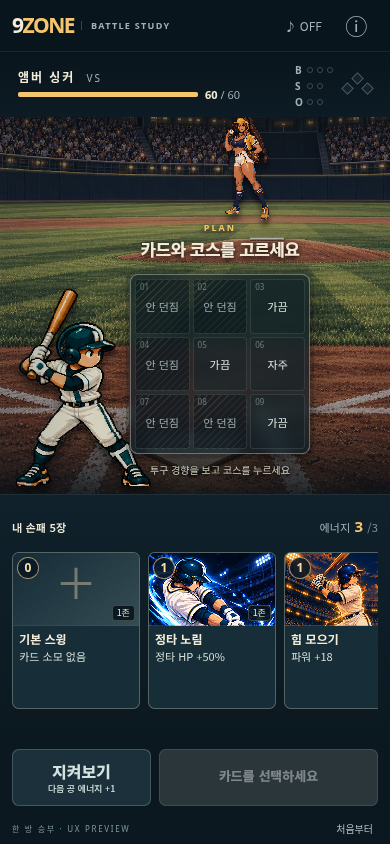
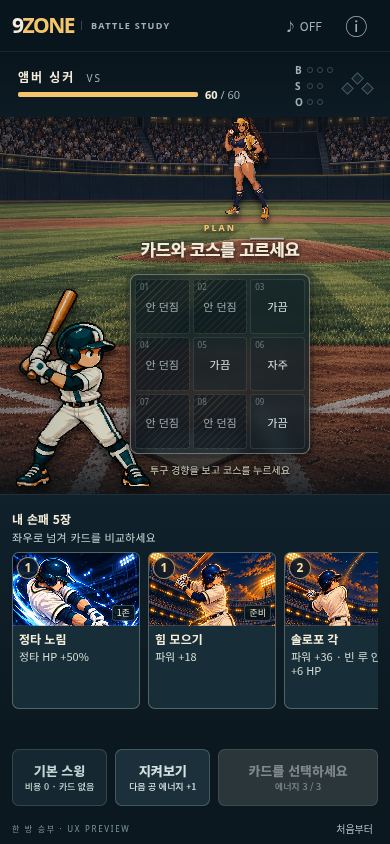
Prioritize real hand cards and keep selected effects visible

diff --git a/tests/zone-first-preview.test.jsx b/tests/zone-first-preview.test.jsx
@@ -9,7 +9,7 @@ import {setAimZone,playV10Action,coverageAt,publicProbabilities,readLevel,START_
 
 afterEach(()=>{cleanup();vi.useRealTimers();localStorage.clear();});
 const zones=()=>[...document.querySelectorAll('.zf-zone')];
-const card=kind=>document.querySelector(`.zf-card[data-kind="${kind}"]`);
+const card=kind=>document.querySelector(`[data-kind="${kind}"]`);
 const stage=()=>document.querySelector('.zf-preview').dataset.step;
 const fixture=()=>{
   const s=createPreviewBattle();
@@ -30,6 +30,37 @@ describe('zone-first preview interaction',()=>{
     expect(screen.getByRole('button',{name:/지켜보기/}).disabled).toBe(false);
     expect(localStorage.getItem('9zone-v10-run')).toBe('existing-run');
   });
+  it('keeps basic swing outside the real hand and selects it without pitching',()=>{
+    vi.useFakeTimers();const s=start();
+    expect(document.querySelectorAll('.zf-hand .zf-card')).toHaveLength(s.battle.hand.length);
+    expect(document.querySelector('.zf-hand [data-kind="basic"]')).toBeNull();
+    fireEvent.click(card('basic'));expect(stage()).toBe('plan');expect(card('basic').getAttribute('aria-pressed')).toBe('true');
+    expect(zones().some(x=>x.getAttribute('aria-pressed')==='true')).toBe(false);
+    fireEvent.click(zones()[4]);expect(screen.getByRole('button',{name:'타격! 에너지 0 / 3'}).disabled).toBe(false);
+    const expected=playV10Action(setAimZone(s,4),{type:'card',id:'basic',supports:[]});
+    fireEvent.click(screen.getByRole('button',{name:'타격! 에너지 0 / 3'}));
+    expect(card('basic').disabled).toBe(true);expect(stage()).toBe('flight');
+    act(()=>vi.advanceTimersByTime(PREVIEW_IMPACT_MS));expect(stage()).toBe('result');
+    expect(screen.getByRole('meter').getAttribute('aria-valuenow')).toBe(String(expected.pitcher.hp));
+  });
+  it('pins the selected payoff, draw limit and cost next to the decision',()=>{
+    const s=fixture();s.deck[4].kind='watch';render(<ZoneFirstPreview initialState={s}/>);
+    fireEvent.click(card('watch'));const summary=document.querySelector('.zf-selection');
+    expect(summary.textContent).toContain('뽑기 1장');expect(summary.textContent).toContain('손패 5장 한도');
+    expect(screen.getByRole('button',{name:'준비 사용 에너지 1 / 3'}).disabled).toBe(false);
+    fireEvent.click(card('place'));expect(summary.textContent).toContain('정타 HP +50%');
+    expect(summary.textContent).not.toContain('손패 5장 한도');
+  });
+  it('announces support removal when selecting a different main card',()=>{
+    start();aimAndPick('place');fireEvent.click(screen.getByRole('button',{name:'＋ 지원 추가'}));
+    fireEvent.click(card('strike'));fireEvent.click(zones()[2]);
+    expect(document.querySelector('.zf-selection').textContent).toContain('지원 1장');
+    fireEvent.click(card('basic'));
+    expect(document.querySelectorAll('.zf-card.is-support')).toHaveLength(0);
+    expect(document.querySelector('.zf-notice').textContent).toContain('지원 1장 해제');
+    expect(screen.getByRole('button',{name:'타격! 에너지 0 / 3'}).disabled).toBe(false);
+    expect(stage()).toBe('plan');
+  });
   it('keeps cards visible through selection and direct re-aiming',()=>{
     const s=start();aimAndPick('strike');
     expect(stage()).toBe('plan');expect(document.querySelector('.zf-hand')).not.toBeNull();
@@ -42,18 +73,18 @@ describe('zone-first preview interaction',()=>{
     expect(stage()).toBe('plan');expect(document.querySelector('.zf-zone.covered')).toBeNull();
     expect(zones().some(x=>x.getAttribute('aria-pressed')==='true')).toBe(false);
     expect(document.querySelector('.zf-board-caption').textContent).not.toContain('적중권');
-    expect(screen.getByRole('button',{name:'코스를 선택하세요'}).disabled).toBe(true);
+    expect(screen.getByRole('button',{name:/^코스를 선택하세요/}).disabled).toBe(true);
     expect(screen.queryByRole('button',{name:'＋ 지원 추가'})).toBeNull();
     fireEvent.click(zones()[2]);
     expect(zones().flatMap((el,z)=>el.classList.contains('covered')?[z]:[])).toEqual(coverageAt(s,'c1',2));
-    expect(screen.getByRole('button',{name:'타격! 에너지 1'}).disabled).toBe(false);
+    expect(screen.getByRole('button',{name:/^타격! 에너지 1/}).disabled).toBe(false);
   });
   it('swaps cards directly while keeping the same hand mounted',()=>{
     start();const hand=document.querySelector('.zf-hand');fireEvent.click(card('place'));
     fireEvent.click(card('strike'));expect(document.querySelector('.zf-hand')).toBe(hand);
     expect(card('strike').getAttribute('aria-pressed')).toBe('true');expect(card('place').getAttribute('aria-pressed')).toBe('false');
     expect(document.querySelector('.zf-zone.covered')).toBeNull();
-    expect(screen.getByRole('button',{name:'코스를 선택하세요'}).disabled).toBe(true);
+    expect(screen.getByRole('button',{name:/^코스를 선택하세요/}).disabled).toBe(true);
     expect(screen.queryByRole('button',{name:/손패 보기|손패 접기|선택으로 돌아가기|카드 바꾸기/})).toBeNull();
   });
   it('chooses a zone first without a reveal step and replaces the attack in place',()=>{
@@ -62,16 +93,16 @@ describe('zone-first preview interaction',()=>{
     expect(document.querySelector('.zf-hand')).toBe(hand);expect(stage()).toBe('plan');
     expect(zones()[2].getAttribute('aria-pressed')).toBe('true');
     expect(zones().flatMap((el,z)=>el.classList.contains('covered')?[z]:[])).toEqual(coverageAt(s,'c0',2));
-    expect(screen.getByRole('button',{name:'타격! 에너지 1'}).disabled).toBe(false);
+    expect(screen.getByRole('button',{name:/^타격! 에너지 1/}).disabled).toBe(false);
   });
   it('uses a preparation without selecting a zone and still requires one for an attack',()=>{
     start();fireEvent.click(card('setup'));
-    fireEvent.click(screen.getByRole('button',{name:'준비 사용 에너지 0'}));
+    fireEvent.click(screen.getByRole('button',{name:/^준비 사용 에너지 0/}));
     expect(stage()).toBe('plan');expect(card('setup')).toBeNull();
     expect(zones().some(x=>x.getAttribute('aria-pressed')==='true')).toBe(false);
     fireEvent.click(card('place'));
     expect(document.querySelector('.zf-notice').textContent).toContain('집중 +1');
-    expect(screen.getByRole('button',{name:'코스를 선택하세요'}).disabled).toBe(true);
+    expect(screen.getByRole('button',{name:/^코스를 선택하세요/}).disabled).toBe(true);
   });
   it('shows the real draw count and hand limit before using a draw card',()=>{
     const s=fixture();s.deck[4].kind='watch';render(<ZoneFirstPreview initialState={s}/>);
@@ -79,7 +110,7 @@ describe('zone-first preview interaction',()=>{
     expect(card('watch').textContent).toContain('뽑기 1장');expect(card('watch').textContent).toContain('손패 5장 한도');
     fireEvent.click(card('watch'));
     expect(card('watch').textContent).toContain('뽑기 1장');
-    fireEvent.click(screen.getByRole('button',{name:'준비 사용 에너지 1'}));
+    fireEvent.click(screen.getByRole('button',{name:/^준비 사용 에너지 1/}));
     expect(document.querySelectorAll('.zf-card:not([data-kind="basic"])')).toHaveLength(5);
     expect(stage()).toBe('plan');
   });
@@ -92,7 +123,7 @@ describe('zone-first preview interaction',()=>{
   it('keeps the real power preparation visible after choosing an attack',()=>{
     const s=fixture();s.deck[4].kind='loadPower';render(<ZoneFirstPreview initialState={s}/>);
     fireEvent.click(card('loadPower'));
-    fireEvent.click(screen.getByRole('button',{name:'준비 사용 에너지 1'}));fireEvent.click(card('place'));
+    fireEvent.click(screen.getByRole('button',{name:/^준비 사용 에너지 1/}));fireEvent.click(card('place'));
     expect(document.querySelector('.zf-notice').textContent).toContain('파워 +18');
   });
   it('explicitly restarts with another real deck instead of replacing a live hand',()=>{
@@ -111,12 +142,12 @@ describe('zone-first preview interaction',()=>{
     expect(document.querySelector('.zf-hand')).toBe(hand);expect(card('setup')).not.toBeNull();
     fireEvent.click(screen.getByRole('button',{name:'지원 선택 취소'}));
     expect(card('strike').getAttribute('aria-pressed')).toBe('true');expect(zones()[4].getAttribute('aria-pressed')).toBe('true');
-    expect(screen.getByRole('button',{name:'타격! 에너지 1'}).disabled).toBe(false);
+    expect(screen.getByRole('button',{name:/^타격! 에너지 1/}).disabled).toBe(false);
   });
   it('places and removes support without moving the main aim',()=>{
     start();aimAndPick('place');fireEvent.click(screen.getByRole('button',{name:'＋ 지원 추가'}));
     fireEvent.click(card('strike'));expect(stage()).toBe('plan');
-    expect(screen.getByRole('button',{name:'지원을 배치하세요'}).disabled).toBe(true);
+    expect(screen.getByRole('button',{name:/^지원을 배치하세요/}).disabled).toBe(true);
     fireEvent.click(zones()[2]);
     expect(zones()[4].getAttribute('aria-pressed')).toBe('true');
     expect(zones()[2].querySelector('[aria-label="지원 위치"]')).not.toBeNull();
@@ -134,7 +165,8 @@ describe('zone-first preview interaction',()=>{
     start();aimAndPick('basic');expect(screen.queryByRole('button',{name:'＋ 지원 추가'})).toBeNull();
     fireEvent.click(card('place'));
     fireEvent.click(screen.getByRole('button',{name:'＋ 지원 추가'}));
-    for(const kind of ['basic','setup','place'])expect(card(kind).getAttribute('aria-disabled')).toBe('true');
+    expect(card('basic').disabled).toBe(true);
+    for(const kind of ['setup','place'])expect(card(kind).getAttribute('aria-disabled')).toBe('true');
   });
   it('rejects an over-budget support with the real engine reason',()=>{
     const s=fixture();s.battle.energy=2;render(<ZoneFirstPreview initialState={s}/>);
@@ -143,7 +175,7 @@ describe('zone-first preview interaction',()=>{
     expect(document.querySelector('.zf-notice').textContent).toContain('3/2');
   });
   it('uses a preparation without pitching and retains its active effect',()=>{
-    start();aimAndPick('setup');fireEvent.click(screen.getByRole('button',{name:'준비 사용 에너지 0'}));
+    start();aimAndPick('setup');fireEvent.click(screen.getByRole('button',{name:/^준비 사용 에너지 0/}));
     expect(stage()).toBe('plan');expect(card('setup')).toBeNull();
     expect(document.querySelector('.zf-notice').textContent).toContain('준비 1/2');
     fireEvent.click(card('place'));expect(document.querySelector('.zf-notice').textContent).toContain('집중 +1');
@@ -157,7 +189,7 @@ describe('zone-first preview interaction',()=>{
   it('shows a scouted outside ball beside the board, without opening information',()=>{
     const s=fixture();s.battle.hand[4]='c5';s.battle.draw=s.deck.filter(c=>!s.battle.hand.includes(c.id)).map(c=>c.id);
     s.battle.pending={zone:9,roll:.5,powerRoll:.1};render(<ZoneFirstPreview initialState={s}/>);
-    aimAndPick('scout');fireEvent.click(screen.getByRole('button',{name:'준비 사용 에너지 1'}));
+    aimAndPick('scout');fireEvent.click(screen.getByRole('button',{name:/^준비 사용 에너지 1/}));
     expect(document.querySelector('.zf-board-caption').textContent).toBe('존 밖 볼 확인');
     expect(stage()).toBe('plan');expect(screen.getByRole('button',{name:/지켜보기/}).disabled).toBe(false);
   });
@@ -165,7 +197,7 @@ describe('zone-first preview interaction',()=>{
     vi.useFakeTimers();const s=fixture();s.battle.pending={zone:4,roll:.5,powerRoll:.1};
     render(<ZoneFirstPreview initialState={s}/>);aimAndPick('place');
     const expected=playV10Action(setAimZone(s,4),{type:'card',id:'c0',supports:[]});
-    fireEvent.click(screen.getByRole('button',{name:'타격! 에너지 1'}));
+    fireEvent.click(screen.getByRole('button',{name:/^타격! 에너지 1/}));
     expect(stage()).toBe('flight');expect(screen.getByRole('meter').getAttribute('aria-valuenow')).toBe(String(s.pitcher.hp));
     expect(document.querySelector('.zf-zone.landed')).toBeNull();expect(document.querySelector('.zf-result-card')).toBeNull();
     expect(screen.getByRole('button',{name:/지켜보기/}).disabled).toBe(true);

diff --git a/src/duel/ZoneFirstPreview.jsx b/src/duel/ZoneFirstPreview.jsx
@@ -105,6 +105,7 @@ export default function ZoneFirstPreview({initialState}){
     if(handMode==='support'){setArmed(c.id);return;}
     if(c.id===picked)return;
     setPicked(c.id);setSupports([]);setArmed(null);
+    if(supports.length)setNotice(`타격 카드 변경 · 지원 ${supports.length}장 해제`);
   };
   const execute=(take=false)=>{
     if(busy.current||result||(!take&&(!picked||armed||handMode==='support'||(!skill&&aim===null)||problem)))return;
@@ -129,6 +130,8 @@ export default function ZoneFirstPreview({initialState}){
   const cardProblemFor=c=>handMode==='support'?stackSupportProblem(game,picked,[...supports,{id:c.id,aimZone:aim}]):cardProblem(game,c.id);
   const ballZone=flying?pending.current?.battle.revealed?.zone:revealed?.zone;
   const ballStyle=Number.isInteger(ballZone)?{'--ball-x':`${ballZone===9?116:((ballZone%3)+.5)/3*100}%`,'--ball-y':`${ballZone===9?50:(Math.floor(ballZone/3)+.5)/3*100}%`}:{};
+  const selectedFace=entry?cardFaceOf(entry,{strikes:game.battle.strikes,drawPreview:preparationDrawPreview(game,entry.id)}):null;
+  const selectedText=selectedFace?[...new Set([selectedFace.summary,selectedFace.condition,selectedFace.drawNote].filter(Boolean))].join(' · '):'';
   const activeEffects=activePreparationFeedback(game.battle,game.phase).filter(t=>!t.startsWith('이번 공 간파:')).join(' · ');
   const clue=pitchClue(game);
   const caption=result?`실제 투구 · ${revealed?.zone===9?'존 밖':ZONE_WORDS[revealed?.zone]}`:
@@ -170,9 +173,8 @@ export default function ZoneFirstPreview({initialState}){
         </div>
       </div>
       <section className="zf-dock" aria-label="이번 공 선택">
-        <div className="zf-dock-top"><span>{result?'이번 공의 결과':entry?entryName(entry):`내 손패 ${hand.length}장`}</span><span className="zf-energy" aria-label={`에너지 ${v10Energy(game)}/${v10EnergyCap(game)}`}>에너지 <b>{v10Energy(game)}</b><span>/{v10EnergyCap(game)}</span></span>{!result&&(canSupport||handMode==='support')&&<button type="button" className="zf-support-toggle" aria-pressed={handMode==='support'} onClick={toggleSupport} disabled={flying}>{handMode==='support'?(armed?'배치 취소':'지원 선택 취소'):'＋ 지원 추가'}</button>}</div>
+        <div className="zf-dock-top"><div className="zf-selection" aria-label="현재 선택"><strong>{result?'이번 공의 결과':entry?entryName(entry):`내 손패 ${hand.length}장`}</strong>{!result&&<span>{selectedText+(supports.length?` · 지원 ${supports.length}장 · 피해 ×${preview.damageRate.toFixed(2)}`:'')||(hand.length>3?'좌우로 넘겨 카드를 비교하세요':'카드와 코스를 원하는 순서로 고르세요')}</span>}</div>{!result&&(canSupport||handMode==='support')&&<button type="button" className="zf-support-toggle" aria-pressed={handMode==='support'} onClick={toggleSupport} disabled={flying}>{handMode==='support'?(armed?'배치 취소':'지원 선택 취소'):'＋ 지원 추가'}</button>}</div>
         {!result&&<div className="zf-hand" role="group" aria-label={handMode==='support'?'지원 카드 선택':'카드 선택'}>
-          <Card s={game} entry={BASIC} onClick={()=>chooseCard({id:'basic',kind:'basic'})} problem={cardProblemFor({id:'basic',kind:'basic'})} selected={picked==='basic'} locked={flying}/>
           {hand.map(c=><Card key={c.id} s={game} entry={c} problem={supports.some(x=>x.id===c.id)?'':cardProblemFor(c)} selected={picked===c.id} support={supports.some(x=>x.id===c.id)} armed={armed===c.id} locked={flying} onClick={()=>chooseCard(c)}/>)}
         </div>}
         {result&&<div className={'zf-result-card zf-'+feedback.tone}><strong>{game.v10.lastCombat?.damage?`−${game.v10.lastCombat.damage} HP`:revealed?.label}</strong><span>{feedback.detail}</span>{game.battle.takeEnergyBonus===1&&['pitch','between'].includes(game.phase)&&<small>다음 공 에너지 4 · {takeDraw.count===1?'추가 카드 +1':takeDraw.reason==='full'?'손패 6장 한도':'추가 드로우 없음'}</small>}<small>{game.phase==='lost'?'3아웃 · 체험 종료':['reward','won'].includes(game.phase)?'투수 격파 · 체험 종료':game.phase==='between'?'다음 타자가 들어옵니다':'같은 타자 · 다음 공'}</small></div>}
@@ -180,12 +182,13 @@ export default function ZoneFirstPreview({initialState}){
       </section>
       <footer className="zf-actions">
         {result?<button type="button" className="zf-go" data-zf-next onClick={nextTurn}>{game.phase==='pitch'?'다음 공':game.phase==='between'?'다음 타자':'다시 플레이'} <span>→</span></button>:<>
+          <button type="button" className="zf-basic" data-kind="basic" aria-pressed={picked==='basic'} onClick={()=>chooseCard({id:'basic',kind:'basic'})} disabled={flying||handMode==='support'}>기본 스윙<small>비용 0 · 카드 없음</small></button>
           <button type="button" className="zf-take" onClick={()=>execute(true)} disabled={flying}>지켜보기<small>{game.battle.strikes===2?'볼이면 +1 · 삼진 피해 0':'다음 공 에너지 +1'}</small></button>
-          <button type="button" className="zf-go" onClick={()=>execute()} disabled={flying||!picked||!!armed||handMode==='support'||!!problem||(!skill&&aim===null)}>{flying?'투구 중…':handMode==='support'?'지원을 배치하세요':skill?'준비 사용':picked&&aim!==null?'타격!':picked?'코스를 선택하세요':'카드를 선택하세요'}<small>{!flying&&picked&&!armed&&handMode!=='support'&&(skill||aim!==null)?`에너지 ${preview?.cost??0}${supports.length?' · 피해 ×'+preview.damageRate.toFixed(2):''}`:''}</small></button>
+          <button type="button" className="zf-go" onClick={()=>execute()} disabled={flying||!picked||!!armed||handMode==='support'||!!problem||(!skill&&aim===null)}>{flying?'투구 중…':handMode==='support'?'지원을 배치하세요':skill?'준비 사용':picked&&aim!==null?'타격!':picked?'코스를 선택하세요':'카드를 선택하세요'}<small>{!flying&&picked&&!armed&&handMode!=='support'&&(skill||aim!==null)?`에너지 ${preview?.cost??0} / ${v10Energy(game)}`:!flying?`에너지 ${v10Energy(game)} / ${v10EnergyCap(game)}`:''}</small></button>
         </>}
       </footer>
       <div className="zf-footnote"><span>{pack.name} · UX PREVIEW</span><button type="button" onClick={()=>restartDeck()} disabled={flying}>처음부터</button></div>
-      {info&&<dialog ref={dialog} className="zf-dialog" onCancel={()=>setInfo(false)} onClose={()=>setInfo(false)} aria-labelledby="zf-info-title"><h2 id="zf-info-title">전투 정보</h2><p>손패는 항상 표시됩니다. 카드와 코스는 원하는 순서로 고르세요. 선택한 지원 카드를 다시 누르면 제거됩니다. 준비 카드는 코스 선택 없이 쓸 수 있습니다.</p><p>기존 덱빌딩 규칙과 실제 시작 덱을 사용하는 단일 전투 체험입니다. 새로고침하면 초기화됩니다.</p><p>현재 타자: {LINEUP[game.battle.batterIndex].name}<br/>준비: {game.battle.preparations}/{v10PrepMax(game)} · 집중 {game.battle.aim||0}<br/>기세 {game.battle.momentum||0} · 투수 흔들림 {game.battle.shaken||0}<br/>주자: {game.battle.bases.map((id,i)=>id?`${i+1}루 ${LINEUP.find(x=>x.id===id)?.name||'주자'}`:null).filter(Boolean).join(' · ')||'없음'}</p>{activeEffects&&<p><strong>유지 중인 준비 효과</strong><br/>{activeEffects}</p>}{entry&&<p><strong>{entryName(entry)}</strong><br/>{entry.kind==='basic'?'한 존을 노립니다. 비용 0 · 카드 소모 없음.':CARDS[entry.kind].text}</p>}<p>손패 {hand.length}장 · 더미 {game.battle.draw.length}장 · 버림 {game.battle.discard.length}장</p><fieldset className="zf-deck-picks"><legend>다른 시작 덱 체험</legend>{START_PACKS.map(p=><button type="button" key={p.id} onClick={()=>restartDeck(p.id)}><strong>{p.name}{p.id===pack.id?' · 현재':''}</strong><small>{p.desc}</small><span>이 덱으로 다시 시작 →</span></button>)}</fieldset><button type="button" onClick={()=>setInfo(false)}>닫기</button></dialog>}
+      {info&&<dialog ref={dialog} className="zf-dialog" onCancel={()=>setInfo(false)} onClose={()=>setInfo(false)} aria-labelledby="zf-info-title"><h2 id="zf-info-title">전투 정보</h2><p>손패는 항상 표시됩니다. 카드와 코스는 원하는 순서로 고르세요. 기본 스윙은 아래 버튼으로 선택하며, 타격 버튼을 눌러 실행합니다. 선택한 지원 카드를 다시 누르면 제거됩니다. 준비 카드는 코스 선택 없이 쓸 수 있습니다.</p><p>기존 덱빌딩 규칙과 실제 시작 덱을 사용하는 단일 전투 체험입니다. 새로고침하면 초기화됩니다.</p><p>현재 타자: {LINEUP[game.battle.batterIndex].name}<br/>준비: {game.battle.preparations}/{v10PrepMax(game)} · 집중 {game.battle.aim||0}<br/>기세 {game.battle.momentum||0} · 투수 흔들림 {game.battle.shaken||0}<br/>주자: {game.battle.bases.map((id,i)=>id?`${i+1}루 ${LINEUP.find(x=>x.id===id)?.name||'주자'}`:null).filter(Boolean).join(' · ')||'없음'}</p>{activeEffects&&<p><strong>유지 중인 준비 효과</strong><br/>{activeEffects}</p>}{entry&&<p><strong>{entryName(entry)}</strong><br/>{entry.kind==='basic'?'한 존을 노립니다. 비용 0 · 카드 소모 없음.':CARDS[entry.kind].text}</p>}<p>손패 {hand.length}장 · 더미 {game.battle.draw.length}장 · 버림 {game.battle.discard.length}장</p><fieldset className="zf-deck-picks"><legend>다른 시작 덱 체험</legend>{START_PACKS.map(p=><button type="button" key={p.id} onClick={()=>restartDeck(p.id)}><strong>{p.name}{p.id===pack.id?' · 현재':''}</strong><small>{p.desc}</small><span>이 덱으로 다시 시작 →</span></button>)}</fieldset><button type="button" onClick={()=>setInfo(false)}>닫기</button></dialog>}
     </section>
   </main>;
 }

diff --git a/src/duel/zone-first-preview.css b/src/duel/zone-first-preview.css
@@ -65,7 +65,9 @@
 .zf-field.zf-near .zf-zone.landed{border-color:#9bcbe1;background:#6cacc344}
 .zf-dock{flex:none;height:248px;padding:8px 12px 0;background:linear-gradient(#10212b,#0b1820);border-top:1px solid #8fa9ad2b;position:relative}
 .zf-dock-top{height:49px;gap:8px;display:flex;align-items:center;justify-content:space-between;font-size:11px;letter-spacing:.2px;color:var(--zf-muted)}
-.zf-dock-top>span:first-child{flex:1;min-width:0;overflow:hidden;text-overflow:ellipsis;white-space:nowrap;color:var(--zf-paper);font-weight:600}
+.zf-selection{flex:1;min-width:0;max-height:49px;overflow-y:auto;scrollbar-width:thin;overscroll-behavior-y:contain;line-height:1.3}
+.zf-selection strong{display:block;color:var(--zf-paper);font-size:12px;font-weight:700;margin-bottom:3px}
+.zf-selection>span{display:block;font-size:11px;color:#c5d5d4;overflow-wrap:anywhere}
 .zf-preview .zf-support-toggle{font-size:10px;padding:5px 8px;min-height:44px;flex:none;color:var(--zf-teal)}
 .zf-preview .zf-support-toggle[aria-pressed="true"]{border-color:var(--zf-teal);background:#83dbc922}
 .zf-energy{display:flex;align-items:baseline;gap:4px}.zf-energy b{font:800 15px/1 system-ui;color:var(--zf-gold)}.zf-energy>span{color:#7f969f}
@@ -98,10 +100,12 @@
 .zf-actions{display:flex;gap:8px;flex:none;padding:7px 12px 8px;height:72px;background:#0b1820}
 .zf-preview .zf-actions button{border-radius:7px;font-size:16px;font-weight:800;min-height:52px;display:flex;flex-direction:column;align-items:center;justify-content:center;gap:2px}
 .zf-preview .zf-actions small{font-size:9px;line-height:1.2;font-weight:500;letter-spacing:0}
-.zf-preview button.zf-take{flex:0 0 38%;background:#1b303b;border-color:#6a858b77;color:#d5e3e0}
+.zf-preview button.zf-take{flex:0 0 26%;font-size:13px;padding-inline:5px;background:#1b303b;border-color:#6a858b77;color:#d5e3e0}
+.zf-preview button.zf-basic{flex:0 0 26%;font-size:13px;padding-inline:5px;color:#c5d5d4;background:#152730}
+.zf-preview button.zf-basic[aria-pressed="true"]{border-color:var(--zf-gold);background:#f4c56c23;color:var(--zf-gold)}
 .zf-preview button.zf-go:not(:disabled){flex:1;background:var(--zf-gold);border-color:#fae0a7;color:#18232a;box-shadow:inset 0 1px #fff7}
 .zf-preview button.zf-go{flex:1}
-.zf-preview .zf-go:disabled{background:#31454c;border-color:#526168;color:#a8b9bd;opacity:.7;font-size:13px}
+.zf-preview .zf-go:disabled{padding-inline:5px;background:#31454c;border-color:#526168;color:#a8b9bd;opacity:.7;font-size:13px}
 .zf-go>span{font-size:18px;line-height:1}
 .zf-footnote{height:30px;flex:none;padding:0 12px calc(env(safe-area-inset-bottom,0px));box-sizing:content-box;display:flex;align-items:center;justify-content:space-between;background:#0b1820;color:#7e959d;font:500 8px/1 system-ui;letter-spacing:1.7px}
 .zf-preview .zf-footnote button{padding:0 5px;min-height:30px;border:0;background:transparent;font-size:10px;color:#a9babd;letter-spacing:0}

diff --git a/docs/design/ZONE-FIRST-PREVIEW.md b/docs/design/ZONE-FIRST-PREVIEW.md
@@ -20,11 +20,11 @@ This is an isolated playable battle study, not a replacement for the main game.
 
 ## Interaction contract
 
-- Initial state shows nine zones and the actual hand. No hand reveal, folding, returning or card-switch button is required. The default basic swing is a zero-cost card alongside the hand.
+- Initial state shows nine zones and the actual hand. No hand reveal, folding, returning or card-switch button is required. Basic swing is an always-visible zero-cost selection button beside take and execute; it no longer occupies a hand slot.
 - Choose a card or zone first. Both directly update the same board; an attack requires an actual aim. No range, odds or arbitrary center appears before aiming.
-- Selecting or swapping a card keeps the hand visible and mounted. Selection is marked on the card, range on the board, cost on the execution button. The fixed toolbar shows the selected name, energy and support control.
+- Selecting or swapping a card keeps the hand visible and mounted. Selection is marked on the card, range on the board, cost on the execution button. The fixed toolbar retains the selected name, core effect, conditions and draw limitations while the hand scrolls. The execution button shows total cost / available energy; the toolbar keeps the support control.
 - Cards show their cost, range/role, core effect and applicable conditions. Long descriptions, pile counts and extended combat details remain in the information dialog.
-- Support mode keeps all cards visible. Ineligible cards show the real engine reason. Choose a support card and its zone; tap an existing support card to remove it. Cancel or Escape preserves the main aim and existing supports. Attacks remain disabled until support placement is complete or cancelled.
+- Support mode keeps all cards visible. Ineligible cards show the real engine reason. Choose a support card and its zone; tap an existing support card to remove it. Cancel or Escape preserves the main aim and existing supports. Replacing the main card explicitly announces how many supports were cleared. Attacks remain disabled until support placement is complete or cancelled.
 - Preparation requires one explicit use action and works without an aim. Actual draw capacity and retained preparation effects use production helpers. The hand remains available afterward.
 - Pitching keeps the hand visible but disables all planning controls. HP/count remain unchanged until actual impact. The result replaces the hand area; the next pitch immediately restores the new hand. Board and action positions stay fixed.
 - Audio is opt-in; respect reduced motion and public information boundaries. Near-miss language requires an actually adjacent miss after reveal.
@@ -33,14 +33,14 @@ This is an isolated playable battle study, not a replacement for the main game.
 
 ## Validation
 
-- Full Vitest suite: **175 files / 1,068 tests passed**, including **28** preview tests.
+- Full Vitest suite: **179 files / 1,123 tests passed**, including **31** preview tests.
 - Existing game browser regression: **53/53** checks passed (title/map/battle/card-stack/pitch/HP/reward/facility/next route/resume/rotation).
-- Built preview browser QA: **234/234** checks passed on 360×640, 375×667, 390×844 and 1440×900, 1440×750, 700×741 and 700×690, plus reduced motion and touch rotation. Includes immediate hand visibility, both selection orders, direct swaps, hand locking during flight, real CDP touch swipes on phones, horizontal wheel on PC, board-coordinate invariance, support controls, HP staging and no failed resources.
-- All three real starter hands checked at 360px for clipped card names, effects and conditions; preparation before aim and retained power bonus checked in the production browser.
+- Built preview browser QA: **276/276** checks passed on 360×640, 375×667, 390×844 and 1440×900, 1440×750, 700×741 and 700×690, plus reduced motion and touch rotation. Includes immediate hand visibility, both selection orders, direct swaps, basic selection without pitching, persistent selected effects while cards scroll offscreen, minimum 44px action targets, hand locking during flight, real CDP touch swipes on phones, horizontal wheel on PC, board-coordinate invariance, support controls, HP staging and no failed resources.
+- All three real starter hands checked at 360px for clipped card names, effects and conditions, and every playable card checked for selected-toolbar fit; preparation before aim and retained power bonus checked in the production browser.
 - Production main route/start flow and native map scrolling: **8/8** checks passed.
-- Smoke: `node scripts/zone-report.js 10` completed. Engine, balance, card data and preparation helpers match the merged `origin/main` (`9fe86cb`); this preview adds presentation only.
+- Smoke: `node scripts/zone-report.js 10` completed. Engine, balance, card data and preparation helpers match the merged `origin/main` (`91cd80e`); this preview adds presentation only.
 - Production build with exact branch Pages base path passed. Shipped size: **58.4 MB / 60 MB**.
-- Independent review covers information boundaries, support cancellation/removal, preparation, flight locking and mobile layout. Duplicate-condition regression coverage is retained.
+- Independent review covers information boundaries, basic selection, persistent selected effects, support cancellation/removal, preparation, flight locking and mobile layout. Duplicate-condition regression coverage is retained.
 
 The review references inform a UX hypothesis: keeping essential choices visible while reducing secondary details should reduce scanning and extra actions. Automated tests establish behavior and regressions; they do not establish commercial quality or enjoyment. Compare the three decks in actual phone play before replacing the main battle screen or broadening into asset and replayability work.
 
